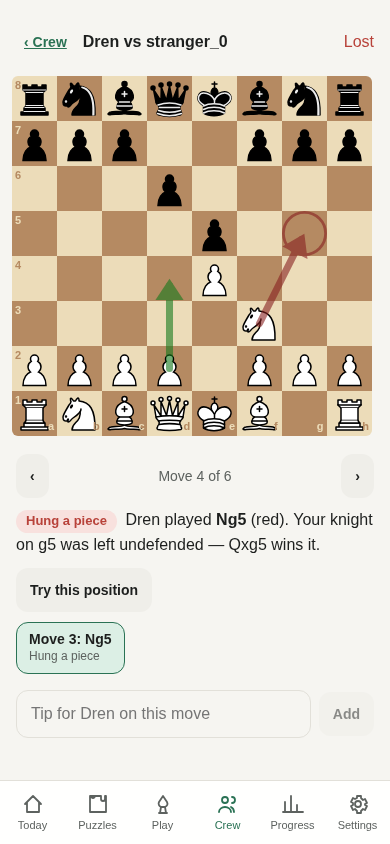
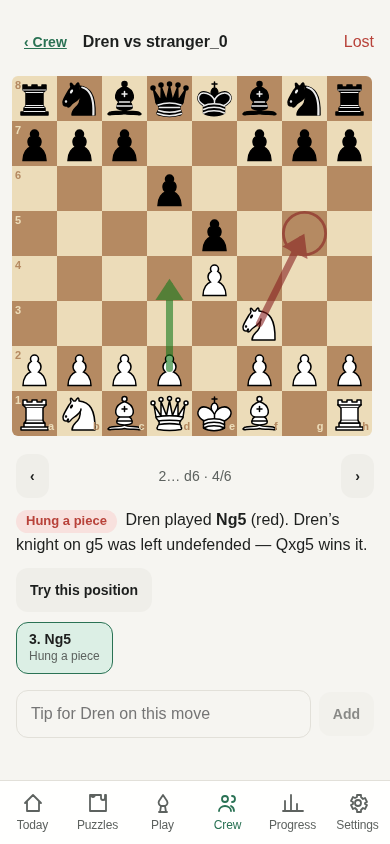
style(crew): design review — motivation first, grouped feed, chess move numbers, clearer join/recovery, visible quest dots
Claude-Session: https://claude.ai/code/session_01JhwcBtAAL32kTYTrVjxgXq

diff --git a/src/crew/CrewScreen.tsx b/src/crew/CrewScreen.tsx
@@ -63,18 +63,24 @@ function JoinCrew({ onJoined }: { onJoined: (a: Account, recovery?: string) => v
         ))}
       </div>
       <form class="card stack" onSubmit={(e) => void submit(e)}>
-        {mode === 'create' ? field('crewName', 'Crew name', { maxLength: 32, placeholder: 'e.g. Saturday chess' }) : field('code', 'Invite code', { maxLength: 6, placeholder: 'ABC123', style: 'text-transform:uppercase' })}
+        {mode === 'recover' && <div class="row between"><h2 style="margin:0">Reset passcode</h2><button type="button" class="btn ghost small" onClick={() => setMode('login')}>Back to log in</button></div>}
+        {mode === 'create' ? field('crewName', 'Crew name', { maxLength: 32, placeholder: 'e.g. Saturday chess' }) : field('code', 'Invite code', { maxLength: 6, placeholder: 'ABC123', autocapitalize: 'characters' })}
         {field('name', 'Your name', { maxLength: 24 })}
         {(mode === 'join' || mode === 'create') && field('chesscom', 'chess.com username', { maxLength: 40 })}
         {mode === 'recover' && field('recovery', 'Recovery code', { placeholder: 'abcd-efgh-jkmn' })}
         {field('passcode', mode === 'recover' ? 'New passcode' : 'Passcode', { type: 'password', minLength: 6, autocomplete: mode === 'login' ? 'current-password' : 'new-password' })}
+        {mode !== 'login' && <small class="dim" style="margin-top:-6px">At least 6 characters</small>}
         {err && <p class="msg bad" role="alert" style="font-size:15px">{err}</p>}
-        <button class="btn block" disabled={busy}>{{ join: 'Join crew', create: 'Start crew', login: 'Log in', recover: 'Set new passcode' }[mode]}</button>
+        <button class="btn block" disabled={busy || !navigator.onLine}>{!navigator.onLine ? 'Needs a connection' : { join: 'Join crew', create: 'Start crew', login: 'Log in', recover: 'Set new passcode' }[mode]}</button>
         {mode === 'login' && <button type="button" class="btn ghost small" onClick={() => setMode('recover')}>Forgot passcode?</button>}
       </form>
     </div>
   );
 }
+
+/** Share sheet on phones (straight to Notes), clipboard elsewhere. */
+const canShare = typeof navigator !== 'undefined' && typeof navigator.share === 'function';
+const saveCode = (code: string) => (canShare ? navigator.share({ text: `Chess Coach recovery code: ${code}` }) : navigator.clipboard.writeText(code));
 
 function RecoveryCard({ code, onDone }: { code: string; onDone: () => void }) {
   const [copied, setCopied] = useState(false);
@@ -84,7 +90,7 @@ function RecoveryCard({ code, onDone }: { code: string; onDone: () => void }) {
       <p class="dim" style="margin:0">If you forget your passcode, this is the only way back in. It won’t be shown again.</p>
       <div class="recovery-code">{code}</div>
       <div class="row">
-        <button class="btn secondary" style="flex:1" onClick={() => void navigator.clipboard?.writeText(code).then(() => setCopied(true))}>{copied ? 'Copied' : 'Copy'}</button>
+        <button class="btn secondary" style="flex:1" onClick={() => void saveCode(code).then(() => setCopied(true)).catch(() => {})}>{copied ? 'Saved' : canShare ? 'Save…' : 'Copy'}</button>
         <button class="btn" style="flex:1" onClick={onDone}>I saved it</button>
       </div>
     </div>
@@ -112,23 +118,36 @@ function CrewHome({ acct, onLeave }: { acct: Account; onLeave: () => void }) {
   const others = crew.members.filter((m) => m.id !== crew.me.id);
   const meRow = crew.members.find((m) => m.id === crew.me.id);
   const suggestion = [...others].sort((a, b) => Math.abs((a.rating ?? 0) - (meRow?.rating ?? 0)) - Math.abs((b.rating ?? 0) - (meRow?.rating ?? 0)))[0];
+  const rivalCard = others.length > 0 && (
+    <section class="card">
+      <h2>Rival</h2>
+      {crew.rival ? (
+        <p style="margin:0 0 8px">You vs <strong>{crew.rival.name}</strong>: {crew.rival.record.wins}–{crew.rival.record.losses}{crew.rival.record.draws ? `–${crew.rival.record.draws}` : ''}
+          {crew.rival.record.cleanOff && <span class="dim"> · fewer hung pieces wins when ratings are far apart</span>}</p>
+      ) : <p class="dim" style="margin:0 0 8px">Pick a friend near your rating; your 15|10 games against each other count here.</p>}
+      <select class="input" aria-label="Rival" value={crew.me.rivalId ?? ''} onChange={async (e) => { await api('/api/rival', { rivalId: (e.target as HTMLSelectElement).value || null }); void load(); }}>
+        <option value="">{crew.rival ? 'No rival' : 'Choose a rival…'}</option>
+        {others.map((m) => <option key={m.id} value={m.id}>{m.name}{m.id === suggestion?.id ? ' (closest rating)' : ''}</option>)}
+      </select>
+    </section>
+  );
+  const recapCard = <Recap recap={crew.recap} crewName={crew.crew.name} />;
+  const monday = new Date().getDay() === 1;
   return (
     <div class="stack crew">
+      <p class="dim crew-name">{crew.crew.name}</p>
       {notice && <p class="dim" role="status">{notice}</p>}
-      <div class="card row between">
-        <div><h2 style="margin:0">{crew.crew.name}</h2><span class="dim">Invite code <strong class="code">{crew.crew.code}</strong></span></div>
-        <button class="btn secondary small" onClick={() => void invite()}>Invite</button>
-      </div>
+      {monday && recapCard}
 
       <section class="card" aria-labelledby="board-title">
-        <h2 id="board-title">Safety Level</h2>
-        <p class="dim small-print" style="margin-top:-4px">Based on pieces hung in your last 10 rapid games. Careful beats strong.</p>
+        <div class="row between"><h2 id="board-title" style="margin:0">Safety Level</h2><button class="btn secondary small" onClick={() => void invite()}>Invite</button></div>
+        <p class="dim small-print" style="margin:4px 0 0">Based on pieces hung in your last 10 rapid games. Careful beats strong.</p>
         <ol class="board-list">
           {crew.members.map((m, i) => (
-            <li key={m.id} class={m.id === crew.me.id ? 'me' : ''}>
+            <li key={m.id}>
               <span class="rank">{m.level === null ? '–' : i + 1}</span>
-              <span class="who"><strong>{m.name}</strong><small class="dim">{m.level === null ? `Calibrating · ${m.games}/5 games` : `${one(m.hpg)} hung/game · ${Math.round(m.zeroHangPct * 100)}% clean games`}</small></span>
-              <span class={`level ${m.level === null ? 'cal' : ''}`} aria-label={m.level === null ? 'No level yet' : `Level ${m.level}`}>{m.level ?? '?'}</span>
+              <span class="who"><strong>{m.name}{m.id === crew.me.id && <span class="dim" style="font-weight:400"> (you)</span>}</strong><small class="dim">{m.level === null ? `Calibrating · ${m.games}/5 games` : `${one(m.hpg)} hung/game · ${Math.round(m.zeroHangPct * 100)}% clean games`}</small></span>
+              <span class={`level ${m.level === null ? 'cal' : ''}`} role="img" aria-label={m.level === null ? 'No level yet' : `Level ${m.level}`}>{m.level ?? '?'}</span>
             </li>
           ))}
         </ol>
@@ -140,36 +159,22 @@ function CrewHome({ acct, onLeave }: { acct: Account; onLeave: () => void }) {
         <div class="quest">
           {crew.members.map((m) => (
             <span key={m.id} class={`quest-dot ${crew.quest.done[m.id] ? 'on' : ''}`} title={m.name}>
-              <span aria-hidden="true">{crew.quest.done[m.id] ? '✓' : ''}</span><small>{m.name}</small>
+              <span aria-hidden="true">{crew.quest.done[m.id] ? '✓' : ''}</span><small>{m.id === crew.me.id ? 'You' : m.name}</small>
             </span>
           ))}
         </div>
       </section>
 
-      {others.length > 0 && (
-        <section class="card">
-          <h2>Rival</h2>
-          {crew.rival ? (
-            <p style="margin:0 0 8px">You vs <strong>{crew.rival.name}</strong>: {crew.rival.record.wins}–{crew.rival.record.losses}{crew.rival.record.draws ? `–${crew.rival.record.draws}` : ''}
-              {crew.rival.record.cleanOff && <span class="dim"> · fewer hung pieces wins when ratings are far apart</span>}</p>
-          ) : <p class="dim" style="margin:0 0 8px">Pick a friend near your rating and play 15|10 games on chess.com. Games against them count here.</p>}
-          <select class="input" aria-label="Rival" value={crew.me.rivalId ?? ''} onChange={async (e) => { await api('/api/rival', { rivalId: (e.target as HTMLSelectElement).value || null }); void load(); }}>
-            <option value="">{crew.rival ? 'No rival' : 'Choose a rival…'}</option>
-            {others.map((m) => <option key={m.id} value={m.id}>{m.name}{m.id === suggestion?.id ? ' (closest rating)' : ''}</option>)}
-          </select>
-        </section>
-      )}
+      {crew.rival && rivalCard}
 
-      <Recap recap={crew.recap} crewName={crew.crew.name} />
-
-      <section>
+      <section class="card">
         <h2>Recent games</h2>
-        {feed.length === 0 && <p class="dim">No analysed rapid games yet. They show up here after the app analyses them on each phone.</p>}
+        {feed.length === 0 && <p class="dim" style="margin:0">No analysed rapid games yet. They show up here after the app analyses them on each phone.</p>}
         <ul class="feed">
           {feed.map((g) => (
             <li key={g.memberId + g.url}>
-              <a class="card feed-item" href={gameHref(g.memberId, g.url)}>
-                <span class="feed-top"><strong>{g.memberName}</strong> <span class={`res ${g.result}`}>{{ win: 'won', loss: 'lost', draw: 'drew' }[g.result] ?? g.result}</span> vs {g.oppName} ({g.oppRating})<span class="dim"> · {date(g.endTime)}</span></span>
+              <a class="feed-item" href={gameHref(g.memberId, g.url)}>
+                <span class="feed-top"><span><strong>{g.memberName}</strong> <span class={`res ${g.result}`}>{{ win: 'won', loss: 'lost', draw: 'drew' }[g.result] ?? g.result}</span> vs {g.oppName} ({g.oppRating})</span><span class="dim feed-date">{date(g.endTime)}</span></span>
                 <span class="stat-line">
                   <span class={g.hangs ? 'bad' : 'good'}>{g.hangs} hung</span>
                   <span>{g.freeMissed} missed</span>
@@ -181,6 +186,9 @@ function CrewHome({ acct, onLeave }: { acct: Account; onLeave: () => void }) {
           ))}
         </ul>
       </section>
+
+      {!monday && recapCard}
+      {!crew.rival && rivalCard}
       <button class="btn ghost small" onClick={onLeave}>Log out of crew on this device</button>
     </div>
   );

diff --git a/src/ui/theme.css b/src/ui/theme.css
@@ -258,12 +258,11 @@ label.btn { cursor: pointer; }
 .form-field { display: flex; flex-direction: column; gap: 6px; }
 .segmented.wide { display: flex; width: 100%; }
 .segmented.wide button { flex: 1; }
-.recovery-code { font: 700 22px ui-monospace, SFMono-Regular, Menlo, monospace; letter-spacing: 0.06em; text-align: center; padding: 14px; border-radius: 12px; background: var(--surface-2); }
+.recovery-code { user-select: all; -webkit-user-select: all; font: 700 22px ui-monospace, SFMono-Regular, Menlo, monospace; letter-spacing: 0.06em; text-align: center; padding: 14px; border-radius: 12px; background: var(--surface-2); }
 .code { font-family: ui-monospace, SFMono-Regular, Menlo, monospace; letter-spacing: 0.08em; color: var(--text); }
 .board-list { list-style: none; padding: 0; margin: 8px 0 0; }
 .board-list li { display: flex; align-items: center; gap: 12px; padding: 10px 0; border-top: 1px solid var(--line); }
 .board-list li:first-child { border-top: 0; }
-.board-list li.me .who strong::after { content: ' (you)'; font-weight: 400; color: var(--text-dim); }
 .board-list .rank { width: 20px; text-align: center; color: var(--text-dim); font-variant-numeric: tabular-nums; }
 .board-list .who { flex: 1; min-width: 0; display: flex; flex-direction: column; }
 .board-list .who strong, .feed-top { overflow-wrap: anywhere; }
@@ -271,22 +270,26 @@ label.btn { cursor: pointer; }
 .level { width: 40px; height: 40px; flex: none; border-radius: 12px; display: grid; place-items: center; font-weight: 800; font-size: 18px; background: var(--accent-soft); color: var(--accent); }
 .level.cal { background: var(--surface-2); color: var(--text-dim); }
 .quest { display: flex; flex-wrap: wrap; gap: 12px; }
-.quest-dot { display: flex; flex-direction: column; align-items: center; gap: 4px; width: 56px; }
-.quest-dot > span { width: 32px; height: 32px; border-radius: 50%; border: 2px solid var(--line); display: grid; place-items: center; font-weight: 700; color: var(--accent-ink); }
+.quest-dot { display: flex; flex-direction: column; align-items: center; gap: 4px; width: 64px; }
+.quest-dot > span { width: 32px; height: 32px; border-radius: 50%; border: 2px solid color-mix(in srgb, var(--text-dim) 40%, transparent); display: grid; place-items: center; font-weight: 700; color: var(--accent-ink); }
 .quest-dot.on > span { background: var(--accent); border-color: var(--accent); }
-.quest-dot small { font-size: 12px; color: var(--text-dim); max-width: 56px; overflow: hidden; text-overflow: ellipsis; white-space: nowrap; }
+.quest-dot small { font-size: 13px; color: var(--text-dim); max-width: 64px; overflow: hidden; text-overflow: ellipsis; white-space: nowrap; }
 select.input { appearance: none; background-image: linear-gradient(45deg, transparent 50%, var(--text-dim) 50%), linear-gradient(135deg, var(--text-dim) 50%, transparent 50%); background-position: calc(100% - 18px) 50%, calc(100% - 13px) 50%; background-size: 5px 5px; background-repeat: no-repeat; width: 100%; }
 .recap-lines { list-style: none; padding: 0; margin: 10px 0 0; }
 .recap-lines li { display: flex; justify-content: space-between; gap: 8px; padding: 4px 0; }
 .recap-new { border-color: var(--accent); }
 .feed { list-style: none; padding: 0; margin: 8px 0 0; }
-.feed-item { display: flex; flex-direction: column; gap: 6px; text-decoration: none; color: var(--text); }
+.feed li + li { border-top: 1px solid var(--line); }
+.feed-item { display: flex; flex-direction: column; gap: 6px; padding: 12px 0; text-decoration: none; color: var(--text); }
+.feed-top { display: flex; gap: 6px; align-items: baseline; }
+.feed-date { margin-left: auto; white-space: nowrap; font-size: 14px; }
+.crew-name { margin: -6px 0 12px; }
 .stat-line { display: flex; flex-wrap: wrap; gap: 6px 12px; font-size: 14px; font-variant-numeric: tabular-nums; }
 .stat-line .bad { color: var(--bad); font-weight: 600; }
 .stat-line .good { color: var(--good); font-weight: 600; }
 .res.win { color: var(--good); } .res.loss { color: var(--bad); } .res.draw { color: var(--text-dim); }
 .crew-game .solver-head .btn { padding: 0 8px; }
 .notes { margin-top: 12px; }
-.note { background: var(--surface-2); border-radius: 10px; padding: 8px 12px; margin-bottom: 8px; font-size: 15px; }
+.crew-note { background: var(--surface-2); border-radius: 10px; padding: 8px 12px; margin-bottom: 8px; font-size: 15px; }
 .notes form { margin-bottom: 8px; }
-@media (max-width: 400px) { .nav a { font-size: 11px; } }
+@media (max-width: 400px) { .nav a span { letter-spacing: -0.01em; } }

diff --git a/src/crew/CrewGame.tsx b/src/crew/CrewGame.tsx
@@ -13,6 +13,10 @@ interface Game {
   moves: string; hangs: number; freeMissed: number; clockUsed: number | null; plies: Ply[]; hidden: boolean; notes: Note[];
 }
 
+/** Chess notation for the move at ply index i: 1. e4, 1… e5 */
+const moveLabel = (i: number, san: string) => `${Math.floor(i / 2) + 1}${i % 2 ? '…' : '.'} ${san}`;
+const prevFen = (moves: string[], n: number) => { const c = new Chess(); for (const m of moves.slice(0, n)) c.move({ from: m.slice(0, 2), to: m.slice(2, 4), promotion: m[4] }); return c.fen(); };
+
 const LABELS: Record<MistakeLabel, string> = {
   'hung-piece': 'Hung a piece', 'missed-free-piece': 'Missed a free piece', 'missed-fork': 'Missed a fork', 'missed-pin': 'Missed a pin',
   'missed-skewer': 'Missed a skewer', 'missed-mate': 'Missed mate', 'allowed-mate': 'Allowed mate', other: 'Mistake',
@@ -75,12 +79,12 @@ export function CrewGame({ memberId, url }: { memberId: string; url: string }) {
       <div class="solver-foot">
         <div class="review-nav">
           <button class="btn secondary small" aria-label="Previous move" disabled={ply <= 0} onClick={() => go(ply - 1)}>‹</button>
-          <span class="pos">{ply === 0 ? 'Start position' : `Move ${ply} of ${moves.length}`}</span>
+          <span class="pos">{ply === 0 ? 'Start position' : `${moveLabel(ply - 1, moves[ply - 1] ? uciToSan(prevFen(moves, ply - 1), moves[ply - 1]) : '')} · ${ply}/${moves.length}`}</span>
           <button class="btn secondary small" aria-label="Next move" disabled={ply >= moves.length} onClick={() => go(ply + 1)}>›</button>
         </div>
         {marked && (
           <div class="moment-detail">
-            <p class="reason"><span class="pill bad">{LABELS[marked.label]}</span> {g.memberName} played <strong>{uciToSan(marked.fenBefore, marked.played)}</strong> (red). {marked.explanation}</p>
+            <p class="reason"><span class="pill bad">{LABELS[marked.label]}</span> {g.memberName} played <strong>{uciToSan(marked.fenBefore, marked.played)}</strong> (red). {mine ? marked.explanation : marked.explanation.replace(/^Your /, `${g.memberName}’s `).replace(/\byou\b/g, 'they')}</p>
             {!mine && <button class="btn secondary small" disabled={tried.has(marked.ply)} onClick={() => void tryIt(marked)}>Try this position</button>}
           </div>
         )}
@@ -88,13 +92,13 @@ export function CrewGame({ memberId, url }: { memberId: string; url: string }) {
           <div class="moments" role="group" aria-label="Marked moves">
             {g.plies.map((p) => (
               <button key={p.ply} class={`moment ${p.ply === ply ? 'on' : ''}`} aria-pressed={p.ply === ply} onClick={() => setPly(p.ply)}>
-                Move {Math.floor(p.ply / 2) + 1}: {uciToSan(p.fenBefore, p.played)}<small>{LABELS[p.label]}</small>
+                {moveLabel(p.ply, uciToSan(p.fenBefore, p.played))}<small>{LABELS[p.label]}</small>
               </button>
             ))}
           </div>
         )}
         <section class="notes" aria-label="Notes on this move">
-          {here.map((n) => <p key={n.createdAt} class="note"><strong>{n.author}:</strong> {n.text}</p>)}
+          {here.map((n) => <p key={n.createdAt} class="crew-note"><strong>{n.author}:</strong> {n.text}</p>)}
           <form class="row" onSubmit={(e) => void addNote(e)}>
             <input class="input" maxLength={140} placeholder={mine ? 'Note to self on this move' : `Tip for ${g.memberName} on this move`} value={note} onInput={(e) => setNote((e.target as HTMLInputElement).value)} aria-label="Note" />
             <button class="btn secondary small" disabled={!note.trim()}>Add</button>

diff --git a/e2e/crew.spec.ts b/e2e/crew.spec.ts
@@ -46,7 +46,7 @@ test('two friends: create, join, see the leaderboard and each other’s games, l
   await olti.getByRole('button', { name: 'Start crew' }).click();
   await expect(olti.getByText('Save your recovery code')).toBeVisible();
   await olti.getByRole('button', { name: 'I saved it' }).click();
-  const code = (await olti.locator('.code').innerText()).trim();
+  const code = await olti.evaluate(async () => (await new Promise<any>((res) => { const r = indexedDB.open('chess-coach'); r.onsuccess = () => { const q = r.result.transaction('kv').objectStore('kv').get('crew-account'); q.onsuccess = () => res(q.result); }; })).code);
   expect(code).toMatch(/^[A-Z2-9]{6}$/);
   await expect(olti.locator('.board-list .level').first()).toHaveText('10');
 

diff --git a/e2e/screens-crew.spec.ts b/e2e/screens-crew.spec.ts
@@ -43,7 +43,7 @@ for (const scheme of ['light', 'dark'] as const) {
     await a.p.getByRole('button', { name: 'Start crew' }).click();
     await shot(a.p, 'recovery');
     await a.p.getByRole('button', { name: 'I saved it' }).click();
-    const code = (await a.p.locator('.code').innerText()).trim();
+    const code = await a.p.evaluate(async () => (await new Promise<any>((res) => { const r = indexedDB.open('chess-coach'); r.onsuccess = () => { const q = r.result.transaction('kv').objectStore('kv').get('crew-account'); q.onsuccess = () => res(q.result); }; })).code);
     for (const { p, name } of rest) {
       await p.goto('/#/crew');
       await p.getByLabel('Invite code').fill(code);
